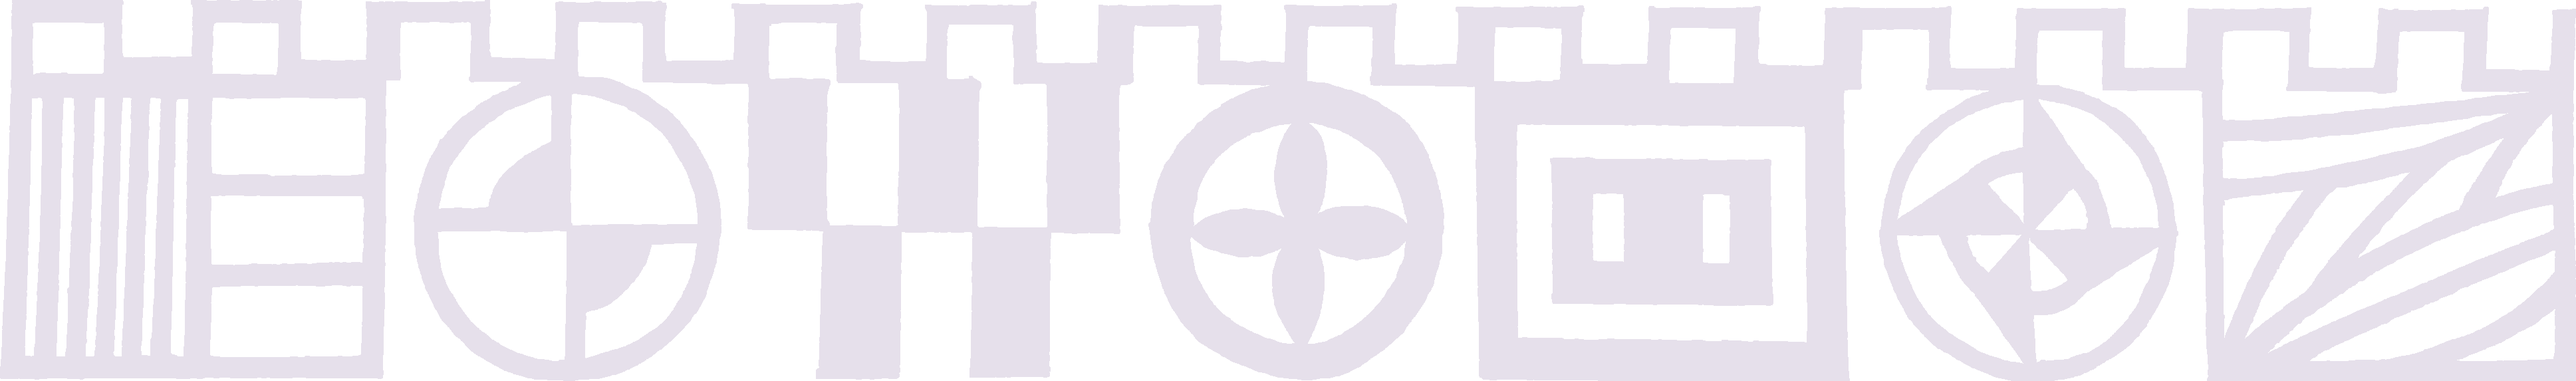
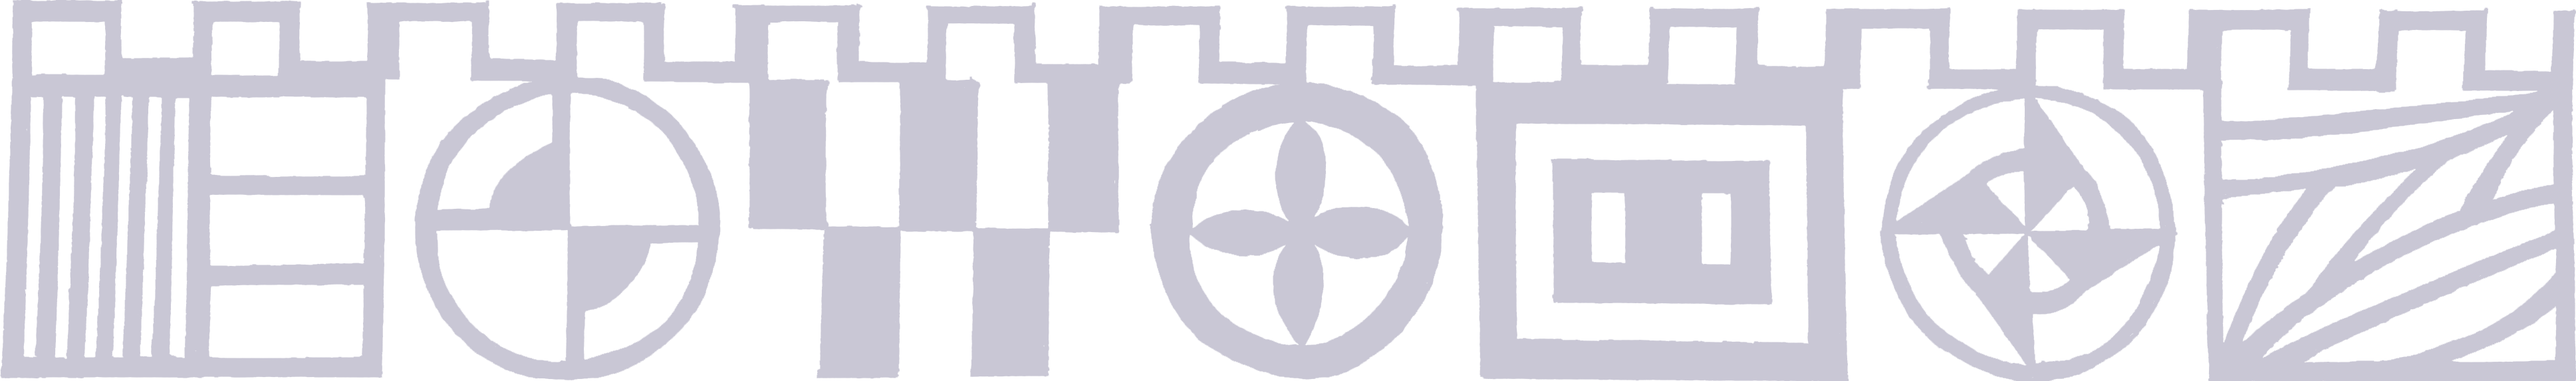
asymptote変更

diff --git a/index.html b/index.html
@@ -123,12 +123,12 @@ Draw a line. Create a space. Again.</span></p>
 <div class="asymptoteimg">
   <h3><img src="images/txt-asymptote.png" alt="asymptote" title="asymptote" class="titletype"/></h3>
   <p class="topcatch">
-  <span class="at-text">ぬかるむ土が目覚めを告げる。約束は覚えている。ハグとランチを楽しもう。</span></p>
+  <span class="at-text">こちらに一つ。あちらに一つ。次はどこに咲くのやら。</span></p>
 </div>
 </div>
-<div class="shundei">
-  <div class="shundeiimg">
-    <img src="images/shundei.png"  alt="春泥の　紫薫るや　ほころんで" title="春泥の　紫薫るや　ほころんで" class="at-illust">
+<div class="kakitsubata">
+  <div class="kakitsubataimg">
+    <img src="images/kakitsubata.png"  alt="燕子花　碁石散らす　かの如く" title="燕子花　碁石散らす　かの如く" class="at-illust">
     </div>
 </div>
 <div class="footer">© 2026 malenia All Rights Reserved.</div>

diff --git a/css/top.css b/css/top.css
@@ -120,7 +120,7 @@ div.doorimg{
 
 div.asymptote{
     background-color: #bcbcba; 
-    background-image: linear-gradient(#a3bb86, #b7ccc0 30%, #dededf);
+    background-image: linear-gradient(#a3bb86, #b7c9cc 30%, #bab7c3);
 }
 div.asymptoteimg{
  background-image: url(../images/bg-asymptote.png);
@@ -129,6 +129,20 @@ div.asymptoteimg{
  background-position:left;
  padding: 60px 20px 10px;
 }
+
+div.kakitsubata{
+    background-color: #dedede; 
+    background-image: linear-gradient(#bab7c3, #c5c5cd 50%, #bab7c3);
+}
+div.kakitsubataimg{
+ background-image: url(../images/bg-kakitsubata.png);
+ background-repeat:repeat;
+ background-size:10%;
+ background-position:left top;
+ padding: 50px 0px 0px;
+}
+
+
 
 div.shundei{
     background-color: #dedede; 
